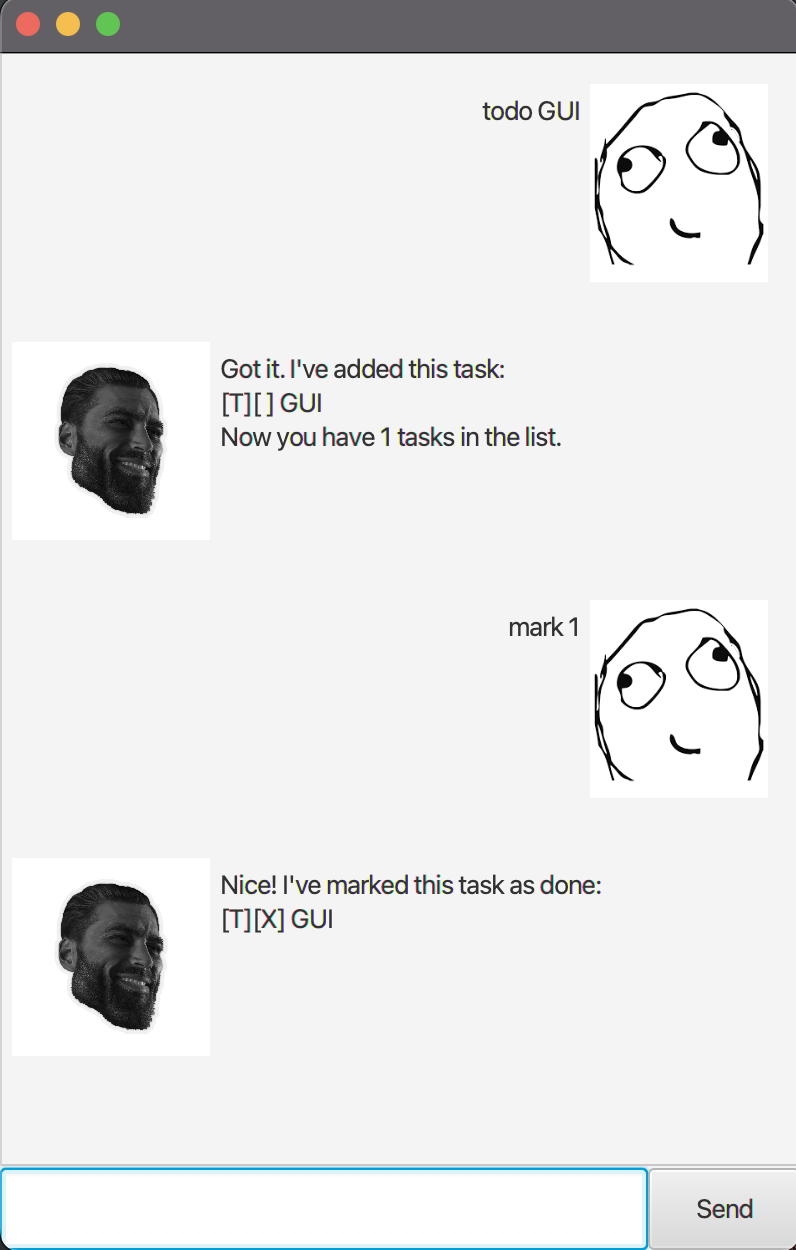
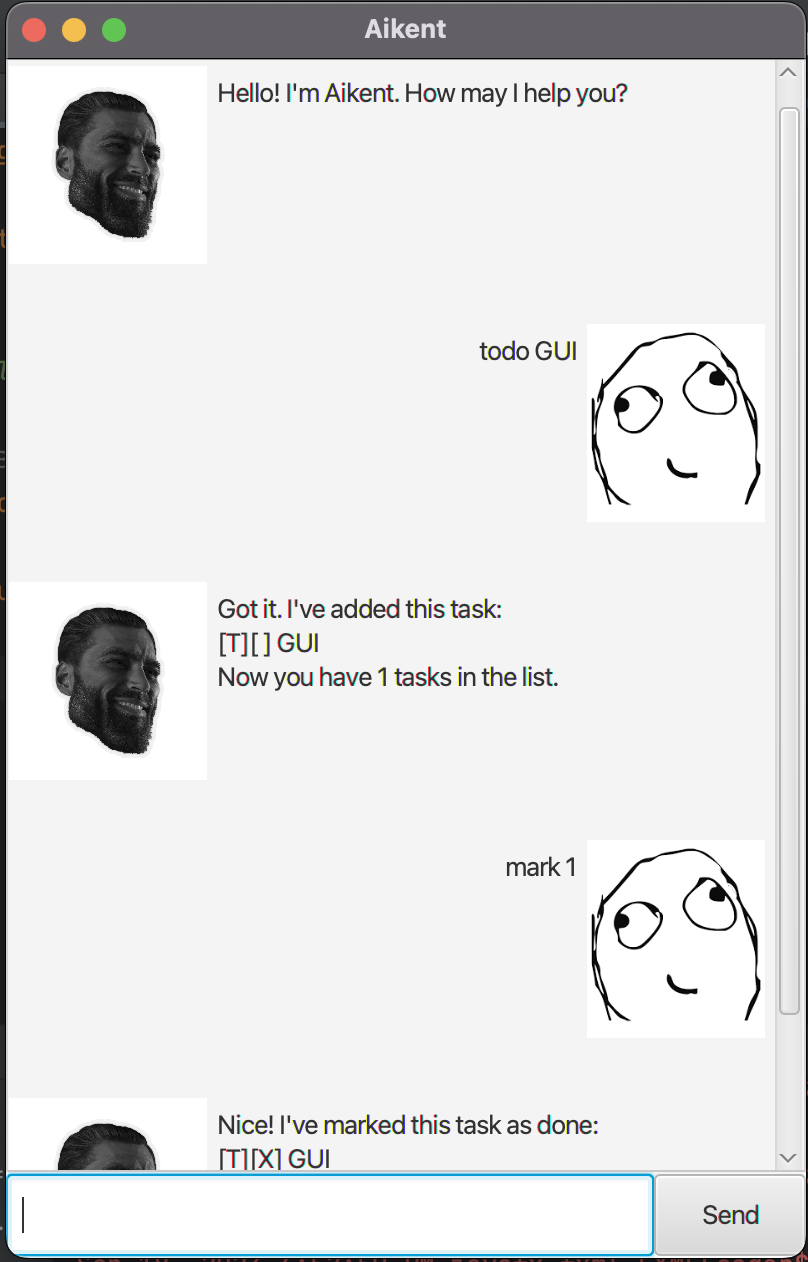
Update Ui.png

diff --git a/src/main/java/duke/gui/MainWindow.java b/src/main/java/duke/gui/MainWindow.java
@@ -30,6 +30,9 @@ public class MainWindow extends AnchorPane {
     @FXML
     public void initialize() {
         scrollPane.vvalueProperty().bind(dialogContainer.heightProperty());
+        dialogContainer.getChildren().addAll(
+                DialogBox.getDukeDialog("Hello! I'm Aikent. How may I help you?", dukeImage)
+        );
     }
 
     public void setDuke(Duke d) {
